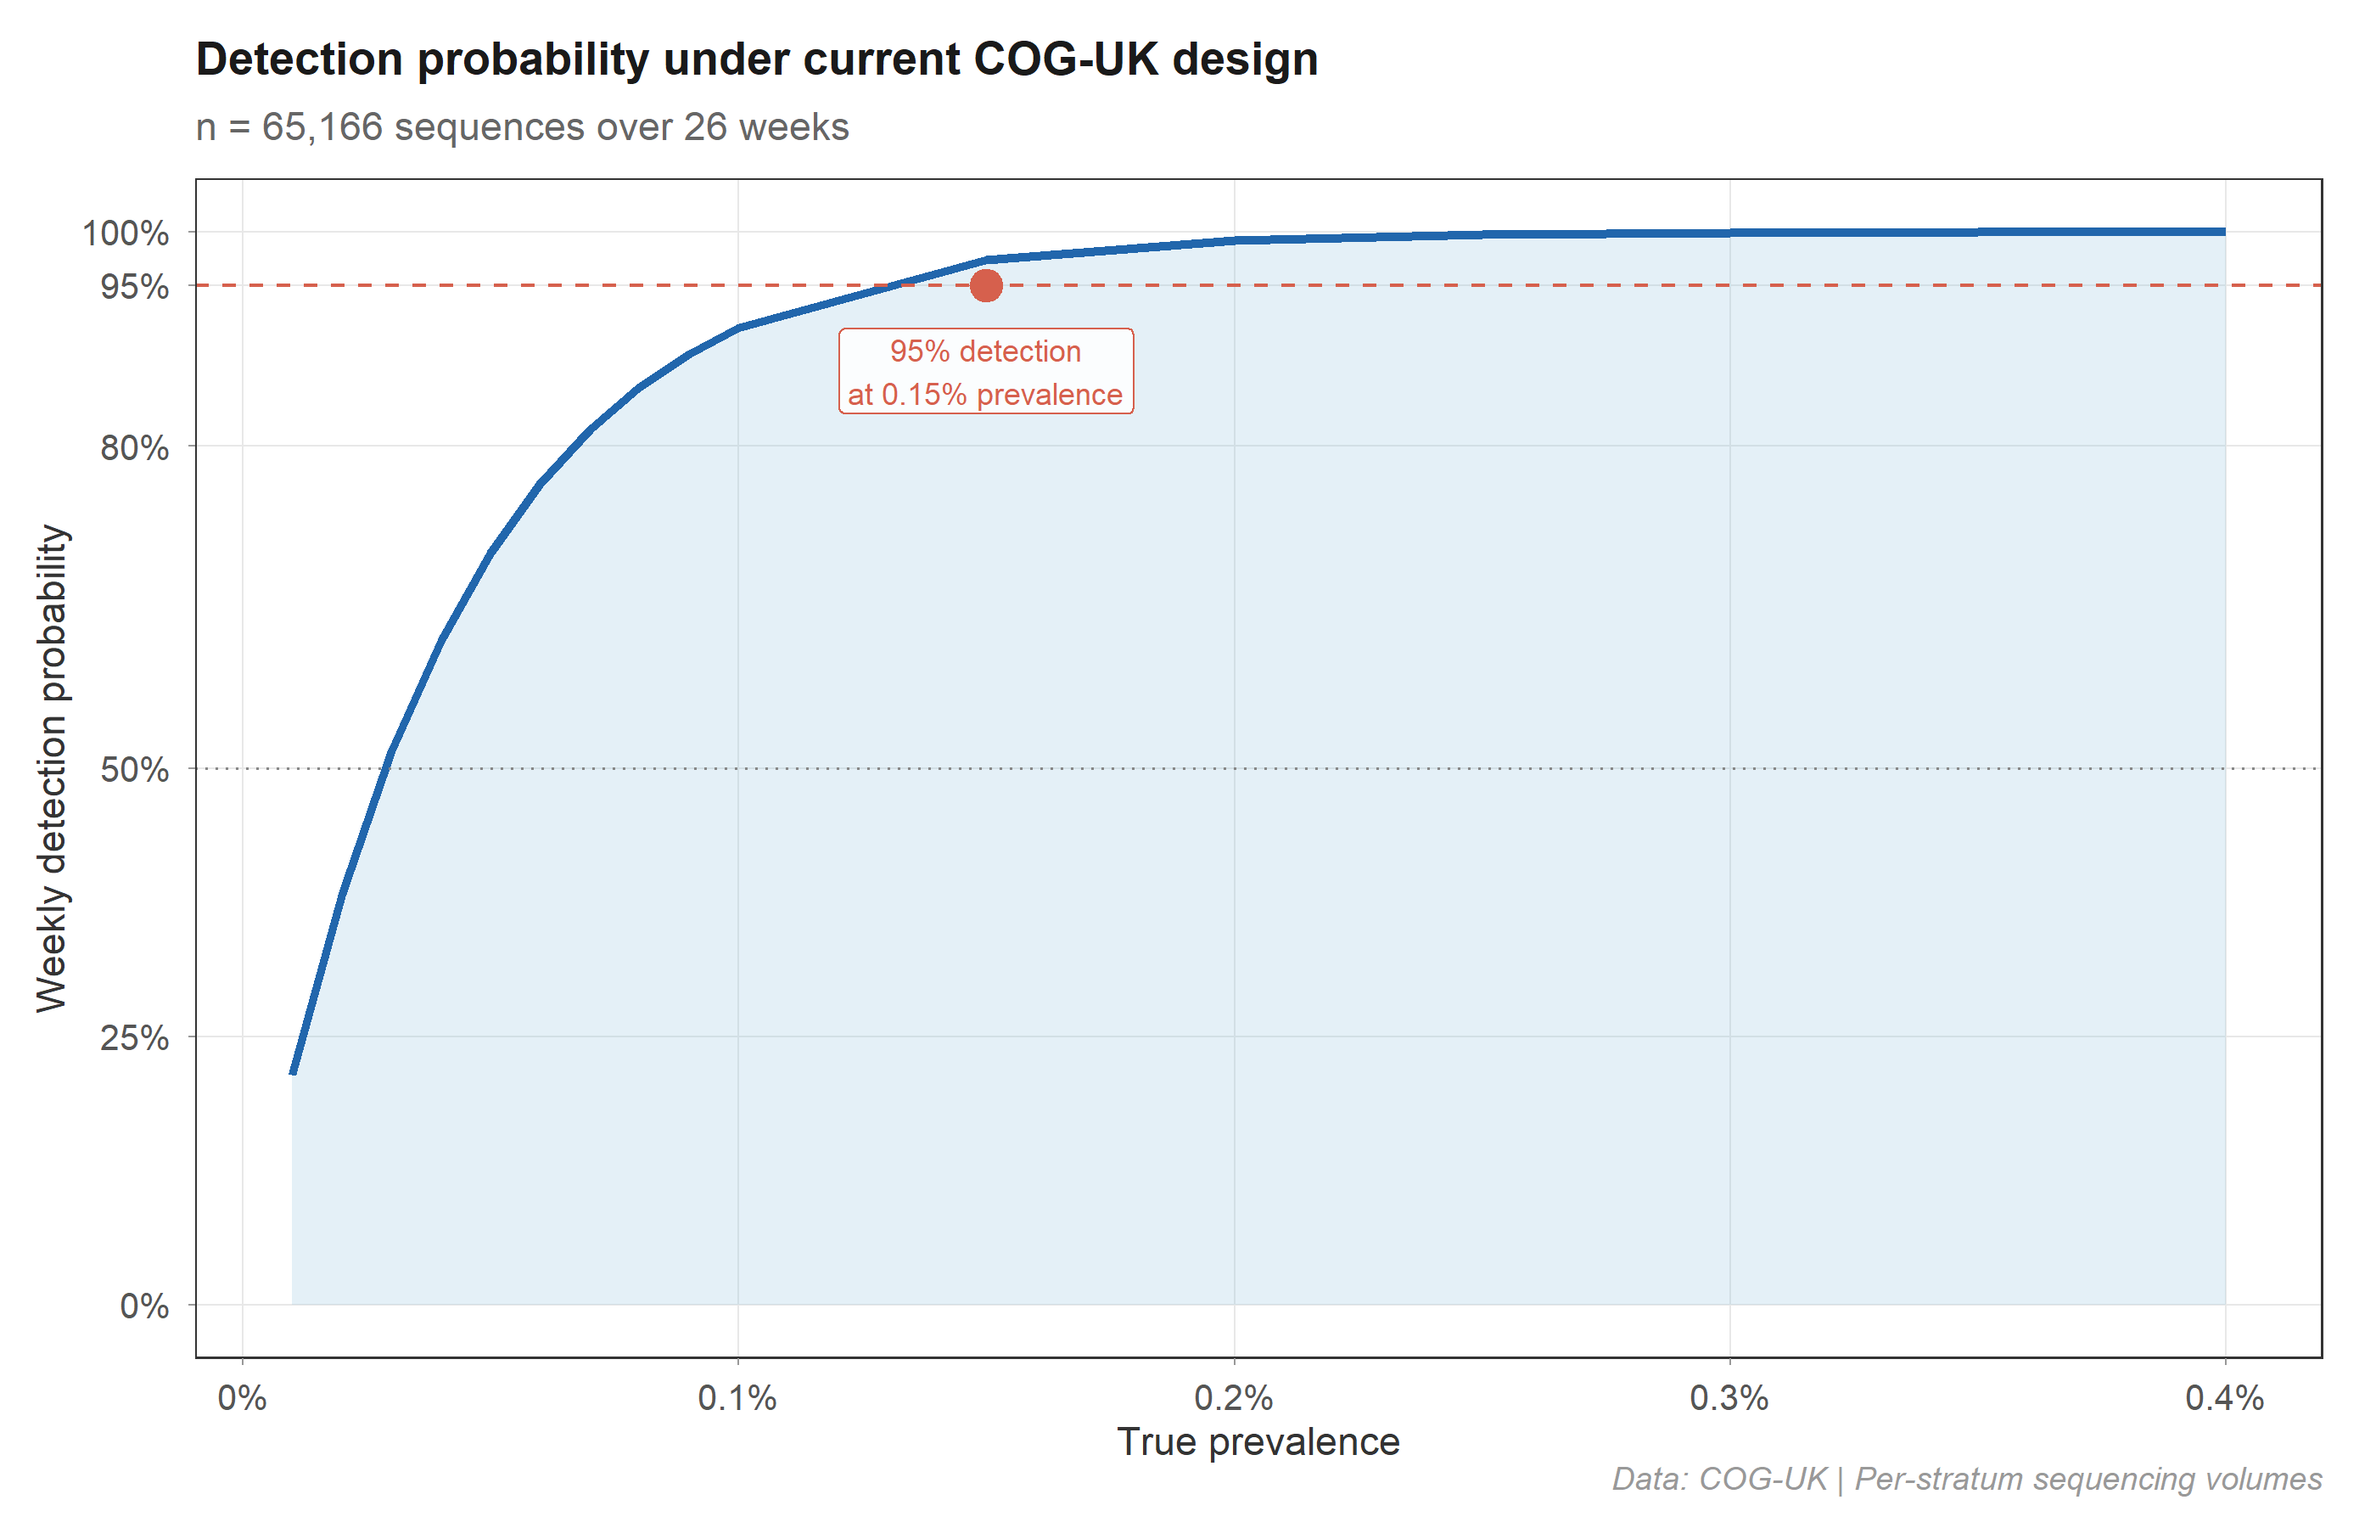
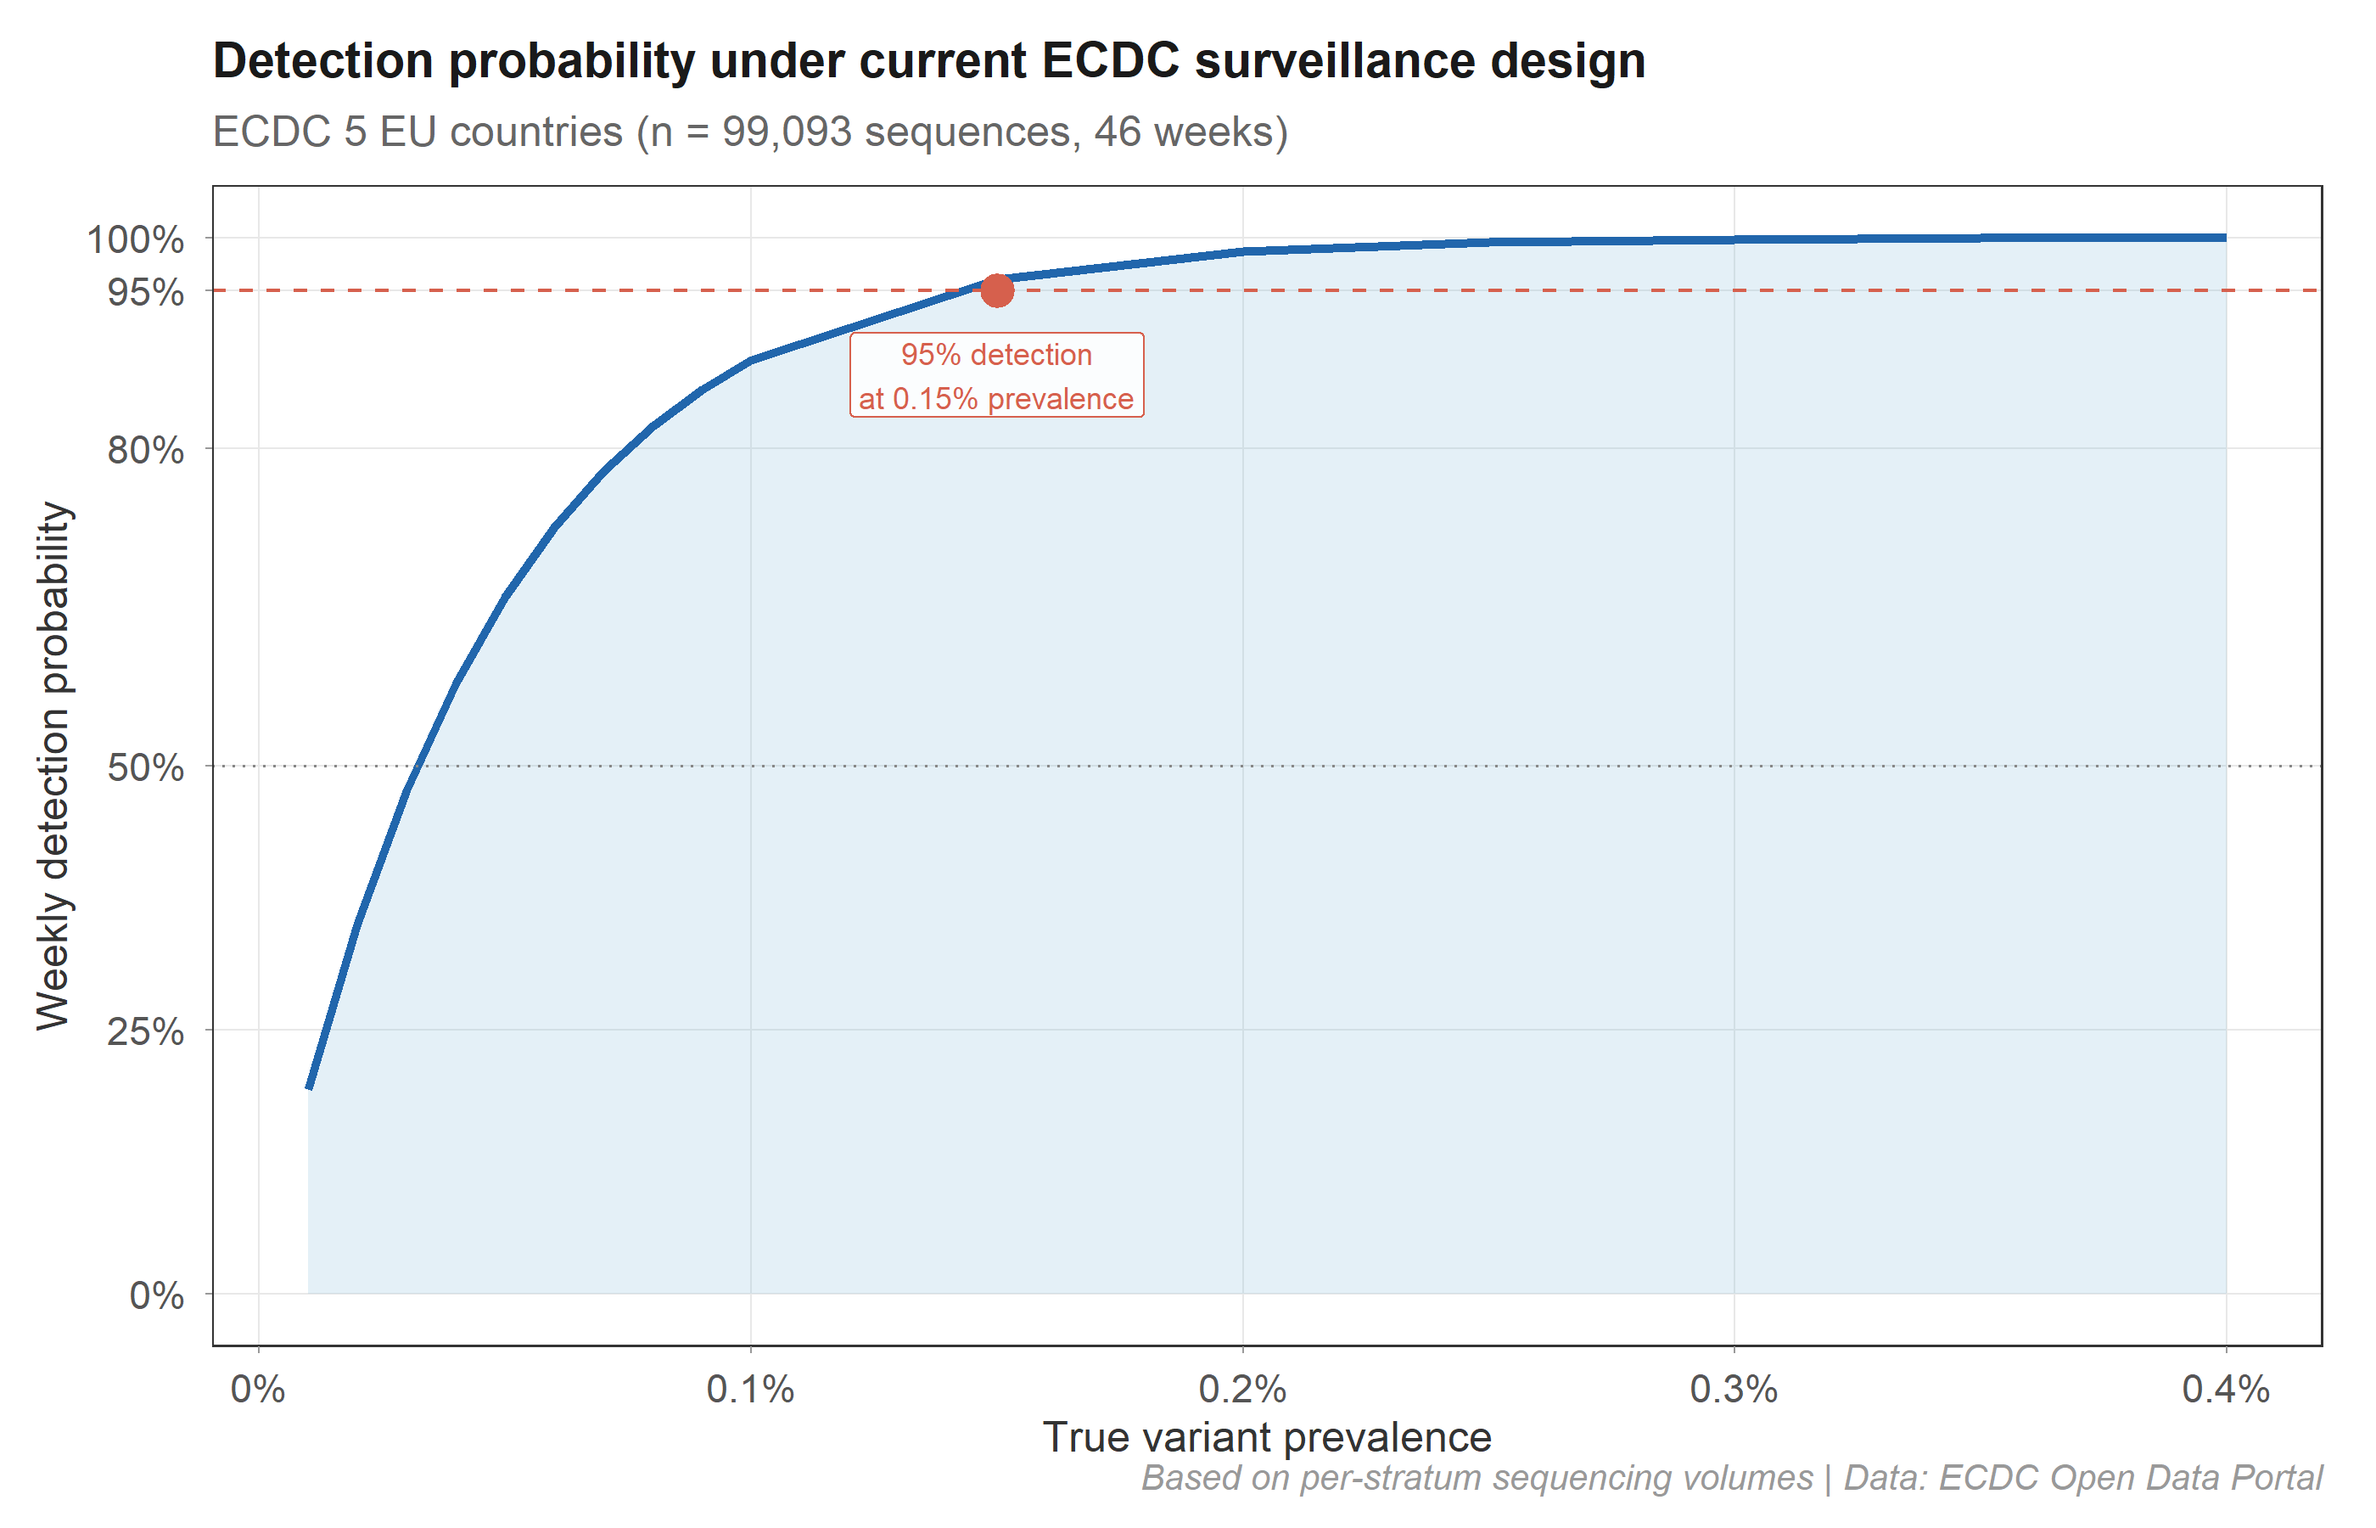
UNIFIED: all figures now use ECDC data (single data source)
fig7 switched from COG-UK to ECDC for consistency.
README header simplified: one data source statement.
9/10 figures: ECDC real data | 1/10: controlled simulation (fig6)

diff --git a/README.md b/README.md
@@ -58,7 +58,7 @@ In pathogen genomic surveillance, **sequencing rates vary up to 40-fold across r
 
 ## Validated on real surveillance data
 
-Figures use **ECDC variant surveillance data** (5 EU countries, n = 99,093) and **COG-UK individual-level metadata** (4 UK nations, n = 65,166). Data sources: [ECDC Open Data](https://opendata.ecdc.europa.eu/covid19/virusvariant/), [COG-UK CLIMB](https://cog-uk.s3.climb.ac.uk/).
+All figures use **ECDC COVID-19 variant surveillance data** (5 EU countries, 46 epiweeks, n = 99,093 real sequences). Data source: [ECDC Open Data Portal](https://opendata.ecdc.europa.eu/covid19/virusvariant/). Figure 6 (benchmark) uses controlled simulation — the standard approach for evaluating statistical methods.
 
 ### Figure 1 · Sequencing inequality across countries
 *Data: ECDC real data (5 EU countries, n = 99,093)*
@@ -115,12 +115,13 @@ Figures use **ECDC variant surveillance data** (5 EU countries, n = 99,093) and 
 > **Key result:** Under heterogeneous prevalence (5%–30% across strata), the Hajek estimator maintains 0.6–2.5 pp absolute bias while the naive estimator reaches 3.2–8.7 pp. Both increase monotonically with inequality, but Hajek remains 3–8× lower. 50 replicates per Gini level; shaded bands show 95% CI.
 
 ### Figure 7 · Detection probability curve
+*Data: ECDC real data (5 EU countries, n = 99,093)*
 
 <p align="center">
 <img src="man/figures/fig7_detection.png" width="85%" />
 </p>
 
-> **Practical use:** `surv_detection_probability()` computes the probability of detecting ≥1 sequence of a variant at a given prevalence. With COG-UK sequencing volumes (n = 65,166 over 26 weeks), 50% weekly detection at 0.03%, 80% at 0.07%, 95% at 0.15% prevalence.
+> **Practical use:** `surv_detection_probability()` computes weekly detection probability as a function of true variant prevalence, accounting for per-stratum sequencing volumes. With ECDC's 5-country design, 95% weekly detection is achieved at very low prevalence due to the large total sample.
 
 ---
 
